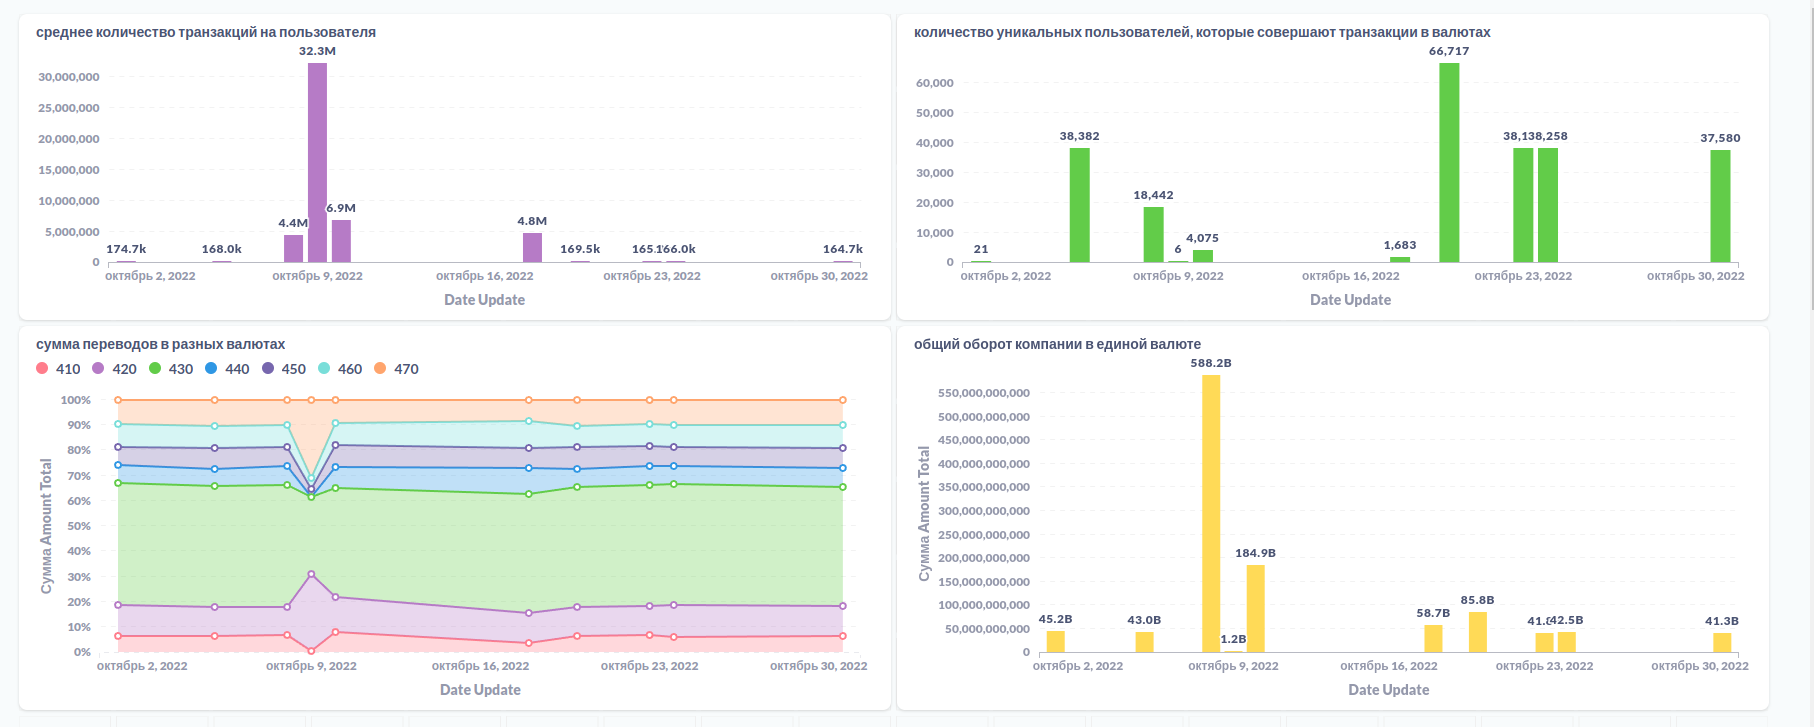
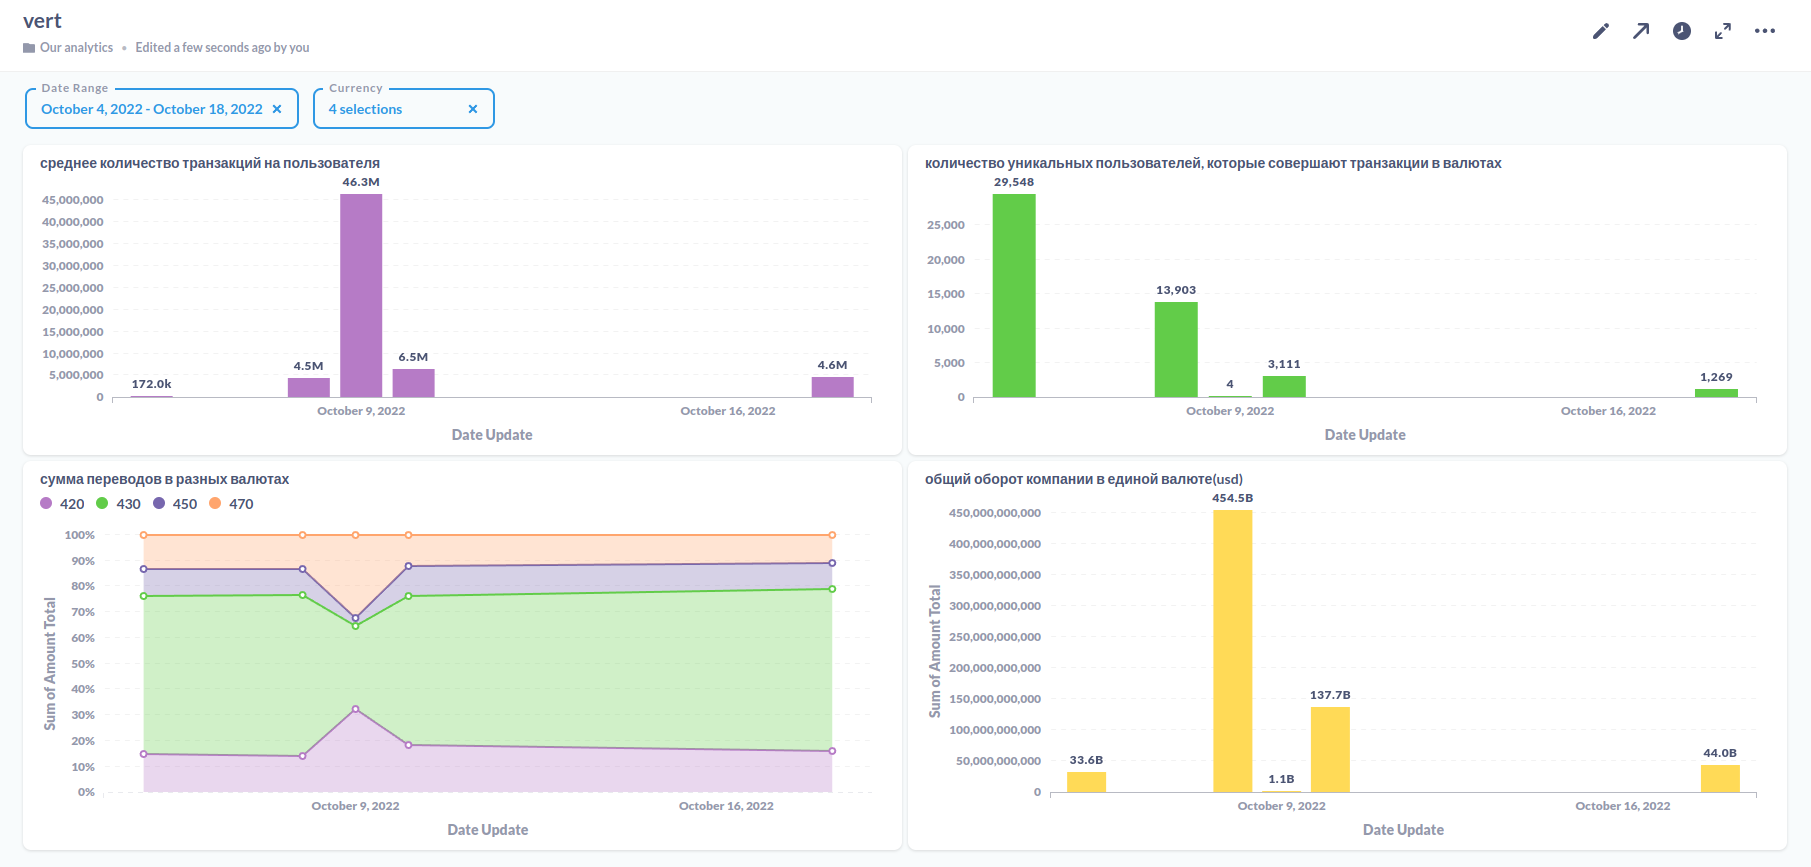
4th

diff --git a/comments.md b/comments.md
@@ -15,3 +15,5 @@ vert_params = {
 Код наполнения витрины тоже есть.  
 Сделал принтскрин даша,  лежит в img, я на сайте после загрузки не вижу эту папку, но в репе она есть.  
 Не оченб понял 3е пункт про фильтры в построении дашей.  
+# 2
+Ну да, я че-то устал и не понял как добавить на даш фильтр, но сейчас разобрался.
